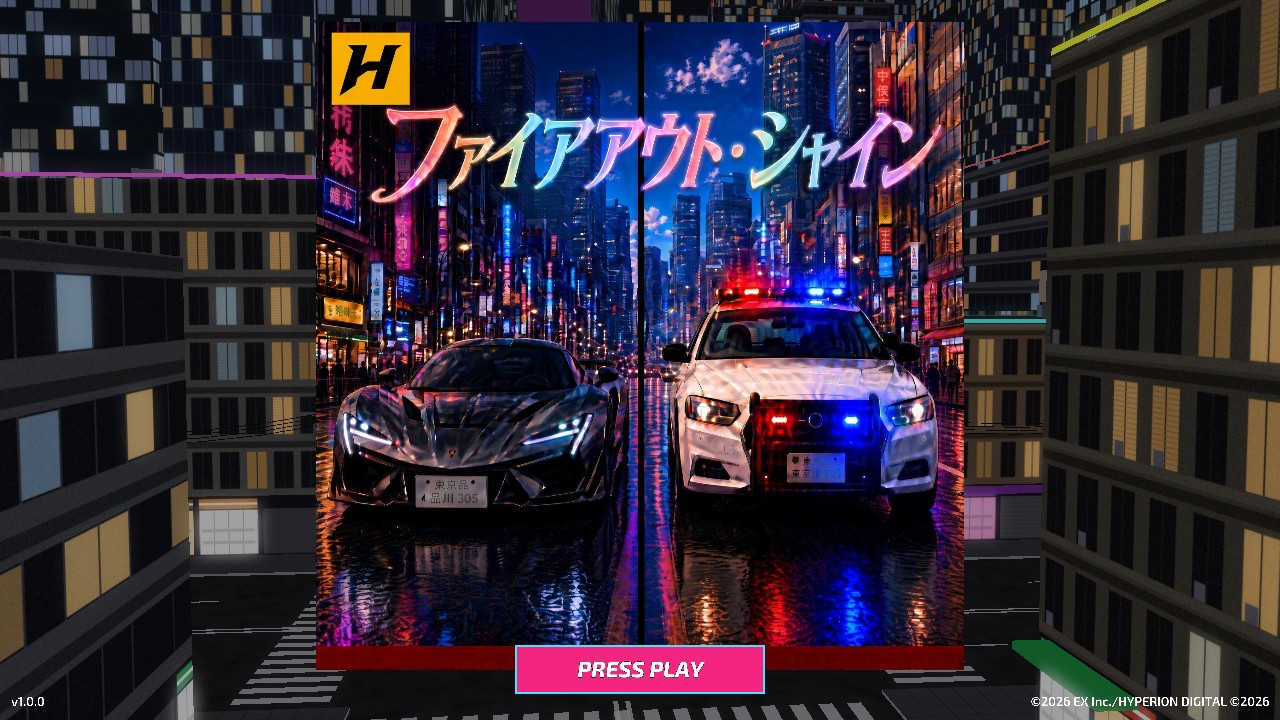
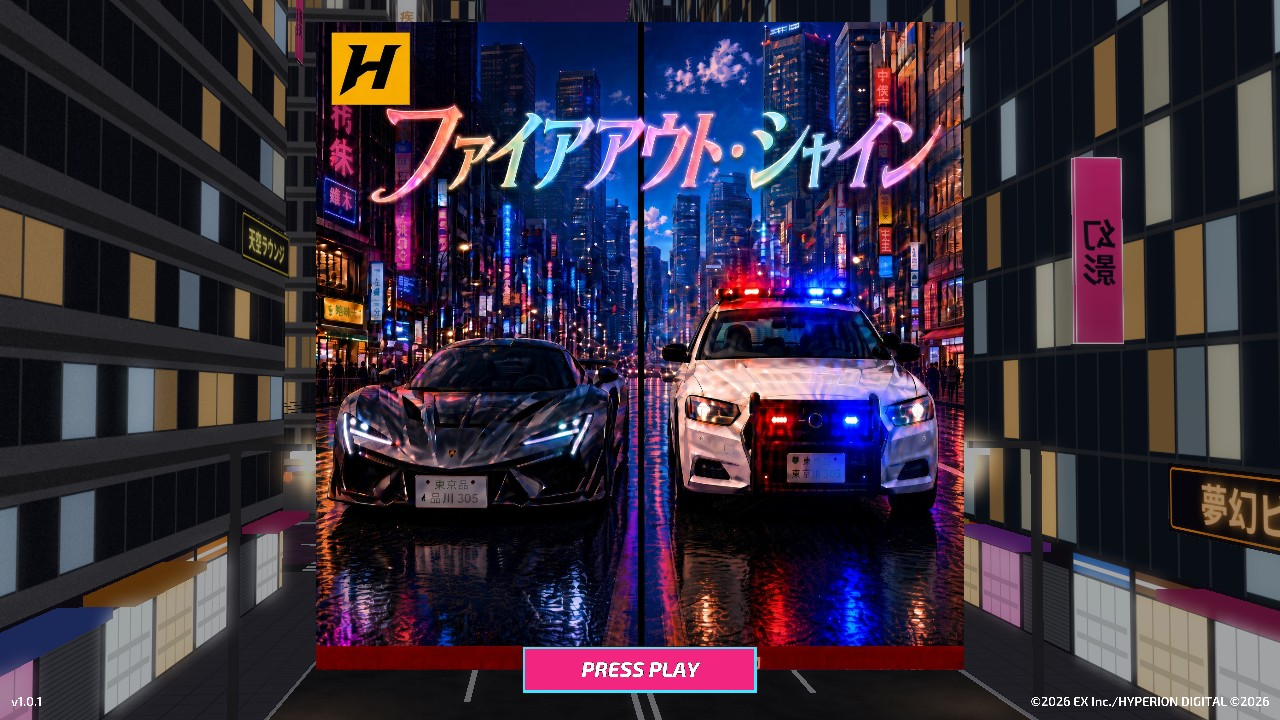
HYPERION DIGITAL EX 1.1.5: FIREOUT SHINE installed by default, first in Featured and Games, new cover art, library cover fix, game update popup, 指名手配される GET WANTED description

diff --git a/hyperion_digital_ex.py b/hyperion_digital_ex.py
@@ -866,6 +866,7 @@ class LibraryPage(QWidget):
         self.list.blockSignals(True); self.list.clear()
         for cat, title in ((GAMES, "GAMES"), (APPS, "APPS & TOOLS")):
             ids = [a["id"] for a in self.ui.svc.catalog.values() if a["category"] == cat and q in a["name"].lower()]
+            ids.sort(key=lambda x: x != "fireout-shine")
             hdr = QListWidgetItem("%s  (%d)" % (title, len(ids))); hdr.setFlags(Qt.NoItemFlags); f = hdr.font(); f.setBold(True); f.setPointSize(8); hdr.setFont(f)
             hdr.setForeground(QColor("#6f8396")); self.list.addItem(hdr)
             for aid in ids:
@@ -1584,14 +1585,33 @@ def smoke(win, out_dir, phase):
         at(6000, lambda: win.close())
     elif phase == "v115":
         at(1000, lambda: (win.resize(1440, 900), win.go("store")))
-        at(7000, lambda: (win.pages["store"].featured.go(0), shot("hdex_home_featured.png")))
+        def popup_shot():
+            d = getattr(win, "gup_dialog", None); L("game update popup", bool(d and d.isVisible()), win.updates_list())
+            base = win.grab()
+            if d and d.isVisible():
+                qp = QPainter(base); dp = d.grab(); qp.fillRect(base.rect(), QColor(0, 0, 0, 110))
+                qp.drawPixmap((base.width() - dp.width()) // 2, (base.height() - dp.height()) // 2, dp); qp.end()
+            base.save(os.path.join(out_dir, "update_popup.png")); L("shot", "update_popup.png")
+            if d: d.close()
+        at(6000, popup_shot)
+        at(7000, lambda: (win.pages["store"].featured.go(0), shot("home_featured.png")))
         at(8000, lambda: win.pages["store"].scroll_to_games())
-        at(9000, lambda: shot("hdex_home_games.png"))
+        at(9000, lambda: shot("home_games.png"))
         at(10000, lambda: win.open_product("fireout-shine"))
-        at(11500, lambda: (L("wishlist nav visible", win.wl.isVisible(), "status", win.svc.status("fireout-shine")), shot("hdex_store_page.png")))
+        at(11500, lambda: (L("wishlist nav visible", win.wl.isVisible(), "status", win.svc.status("fireout-shine")), shot("store_page.png")))
         at(12500, lambda: win.open_library("fireout-shine"))
         at(14000, lambda: (shot("library.png"), L("default_install_done", win.svc.state.get("default_install_done"))))
         at(15000, lambda: win.close())
+    elif phase == "definstall":
+        at(1000, lambda: (win.resize(1440, 900), win.go("store")))
+        at(12000, lambda: (L("status", win.svc.status("fireout-shine")), win.pages["store"].featured.go(0), shot("default_install_progress.png")))
+        def waitplay():
+            st = win.svc.status("fireout-shine"); L("status", st)
+            if st not in ("play", "error") and time.time() - win._t0 < 400:
+                return QTimer.singleShot(3000, waitplay)
+            win.refresh_all(); win.pages["store"].featured.go(0)
+            QTimer.singleShot(1500, lambda: (shot("default_install_done.png"), win.close()))
+        at(13000, lambda: (setattr(win, "_t0", time.time()), waitplay()))
     elif phase == "wishlist":
         at(4000, lambda: (win.svc.toggle_wishlist("fireout-shine", True), win.open_product("fireout-shine")))
         at(5500, lambda: shot("screenshot_fireout_shine.png"))

diff --git a/ex_catalog.py b/ex_catalog.py
@@ -41,7 +41,7 @@ CATALOG = [
         ]),
     dict(
         id="fireout-shine", name="\u30d5\u30a1\u30a4\u30a2\u30a2\u30a6\u30c8\u30fb\u30b7\u30e3\u30a4\u30f3", repo="fireout-shine", category=GAMES,
-        genre="Racing \u00b7 Police chase \u00b7 Open world",
+        genre="Racing \u00b7 \u6307\u540d\u624b\u914d\u3055\u308c\u308b GET WANTED \u00b7 Open world",
         exe="FIREOUT SHINE.exe", folder="FIREOUT SHINE",
         portable=["FIREOUT SHINE.exe", "FIREOUT-SHINE-Portable.exe"], version="1.0.1", release="2026",
         publisher="EX Inc./HYPERION DIGITAL", developer="EX Inc./HYPERION DIGITAL",
@@ -141,6 +141,6 @@ KNOWN_SIZES = {
     "EX.CREATOR.STUDIO.Setup.1.3.0.exe": 69162520, "EX.CREATOR.STUDIO.zip": 102129520,
     "EX.NETWORK.Setup.1.2.1.exe": 10069445, "EX_NETWORK.zip": 10861118,
     "EX.SUDO.TERMINAL.Setup.1.1.2.exe": 11926787, "EX_SUDO_TERMINAL.zip": 13609861,
-    "FIREOUT-SHINE-Setup-1.0.0.exe": 136641159, "FIREOUT-SHINE-1.0.0-Windows-x64.zip": 163100936,
+    "FIREOUT-SHINE-Setup-1.0.1.exe": 137226943, "FIREOUT-SHINE-1.0.1-Windows-x64.zip": 163677077, "FIREOUT-SHINE-Portable.exe": 163032983,
     "DREAM.VINE.LAUNCHER.Setup.1.0.2.exe": 13957793, "DREAM.VINE.LAUNCHER.1.0.2.Windows.x64.zip": 17697430,
 }
